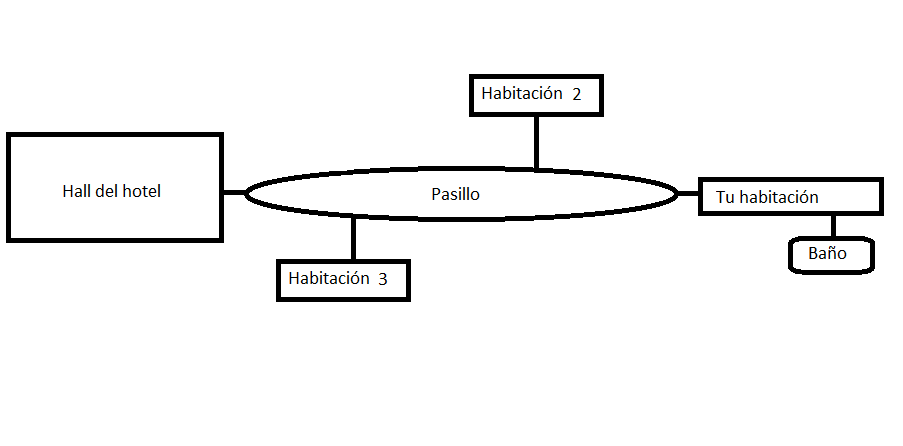
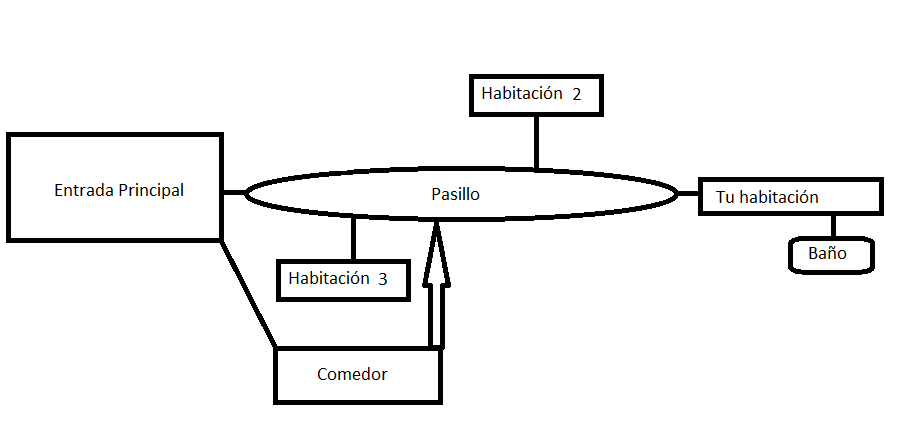
Direccion surEste añadida

Changed region(s): [[0.2791, 0.4955, 0.4961, 0.9327], [0.062, 0.4081, 0.2171, 0.4664], [0.2481, 0.5538, 0.2791, 0.6704]]

diff --git a/Game.java b/Game.java
@@ -34,24 +34,26 @@ public class Game
      */
     private void createRooms()
     {
-        Room hallDelHotel, pasillo, habitacion2, habitacion3, tuHabitacion, wc;
-      
+        Room hallDelHotel, pasillo, habitacion2, habitacion3, tuHabitacion, wc, comedor;
+        
         // create the rooms
         hallDelHotel = new Room("in the main entrance");
         pasillo = new Room("hall rooms");
         habitacion2 = new Room("in the room number 3, there isn't your room");
         habitacion3 = new Room("in the room number 3, there isn't your room");
         tuHabitacion = new Room("in your room");
-        wc = new Room("your bathroom");
+        wc = new Room("in your bathroom");
+        comedor = new Room("in the dinningroom");
         
         // initialise room exits
-        // arriba, derecha, abajo, izquierda
-        hallDelHotel.setExits(null, pasillo, null, null);
-        pasillo.setExits(habitacion2, tuHabitacion, habitacion3, hallDelHotel);
-        habitacion2.setExits(null, null, pasillo, null);
-        habitacion3.setExits(pasillo, null, null, null);
-        tuHabitacion.setExits(null, null, wc, pasillo);
-        wc.setExits(tuHabitacion, null, null, null);
+        // norte, este, sur, oeste, sureste
+        hallDelHotel.setExits(null, pasillo, null, null, comedor);
+        pasillo.setExits(habitacion2, tuHabitacion, habitacion3, hallDelHotel, null);
+        habitacion2.setExits(null, null, pasillo, null, null);
+        habitacion3.setExits(pasillo, null, null, null, null);
+        tuHabitacion.setExits(null, null, wc, pasillo, null);
+        wc.setExits(tuHabitacion, null, null, null, null);
+        comedor.setExits(pasillo, null, null, null, null);
 
         currentRoom = hallDelHotel;  // start game outside
     }
@@ -165,6 +167,10 @@ public class Game
         if(direction.equals("west")) {
             nextRoom = currentRoom.westExit;
         }
+        if(direction.equals("southEast"))
+        {
+            nextRoom = currentRoom.southEastExit;
+        }
 
         if (nextRoom == null) {
             System.out.println("There is no door!");
@@ -205,6 +211,10 @@ public class Game
         }
         if(currentRoom.westExit != null) {
             System.out.print("west ");
+        }
+        if(currentRoom.southEastExit != null)
+        {
+            System.out.print("southEast ");
         }
         System.out.println();
     }

diff --git a/Room.java b/Room.java
@@ -19,6 +19,7 @@ public class Room
     public Room southExit;
     public Room eastExit;
     public Room westExit;
+    public Room southEastExit;
 
     /**
      * Create a room described "description". Initially, it has
@@ -39,7 +40,7 @@ public class Room
      * @param south The south exit.
      * @param west The west exit.
      */
-    public void setExits(Room north, Room east, Room south, Room west) 
+    public void setExits(Room north, Room east, Room south, Room west, Room southEast) 
     {
         if(north != null)
             northExit = north;
@@ -49,6 +50,8 @@ public class Room
             southExit = south;
         if(west != null)
             westExit = west;
+        if (southEast != null)
+            southEastExit = southEast;
     }
 
     /**
